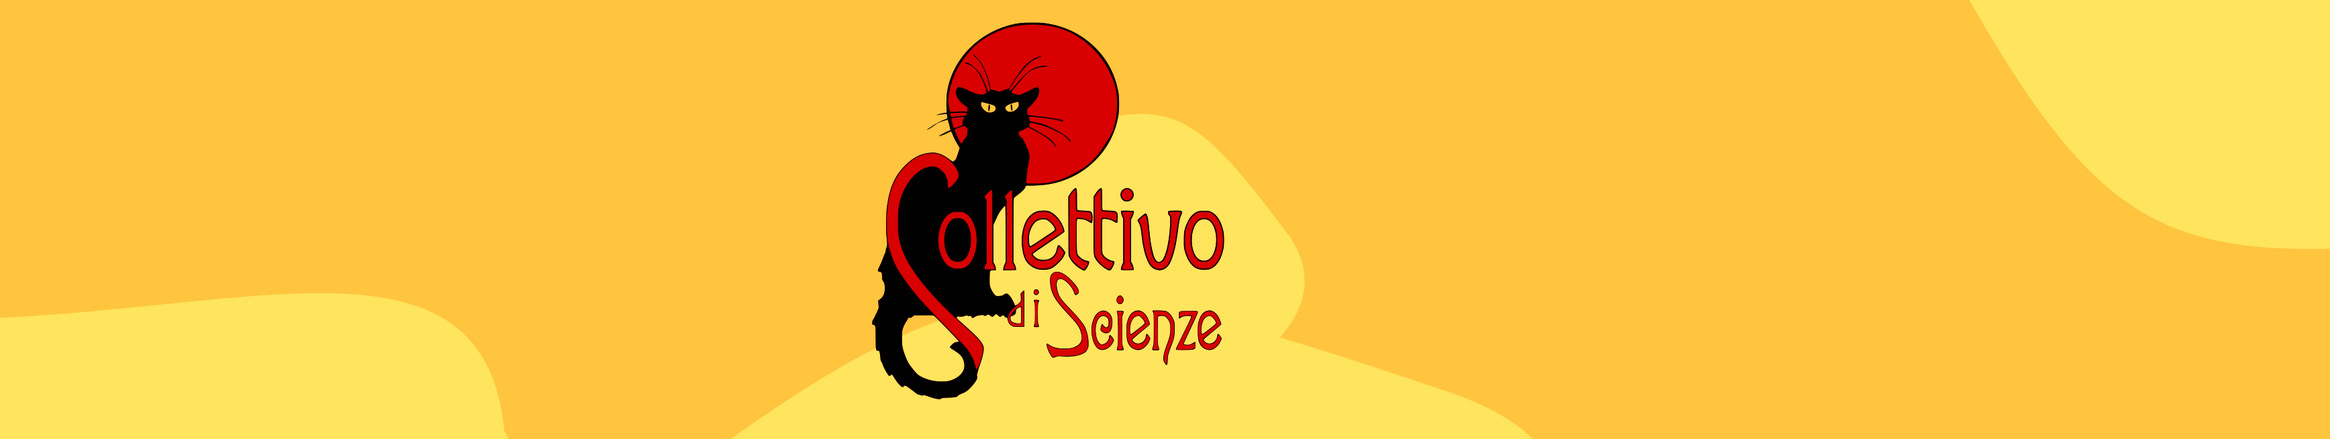
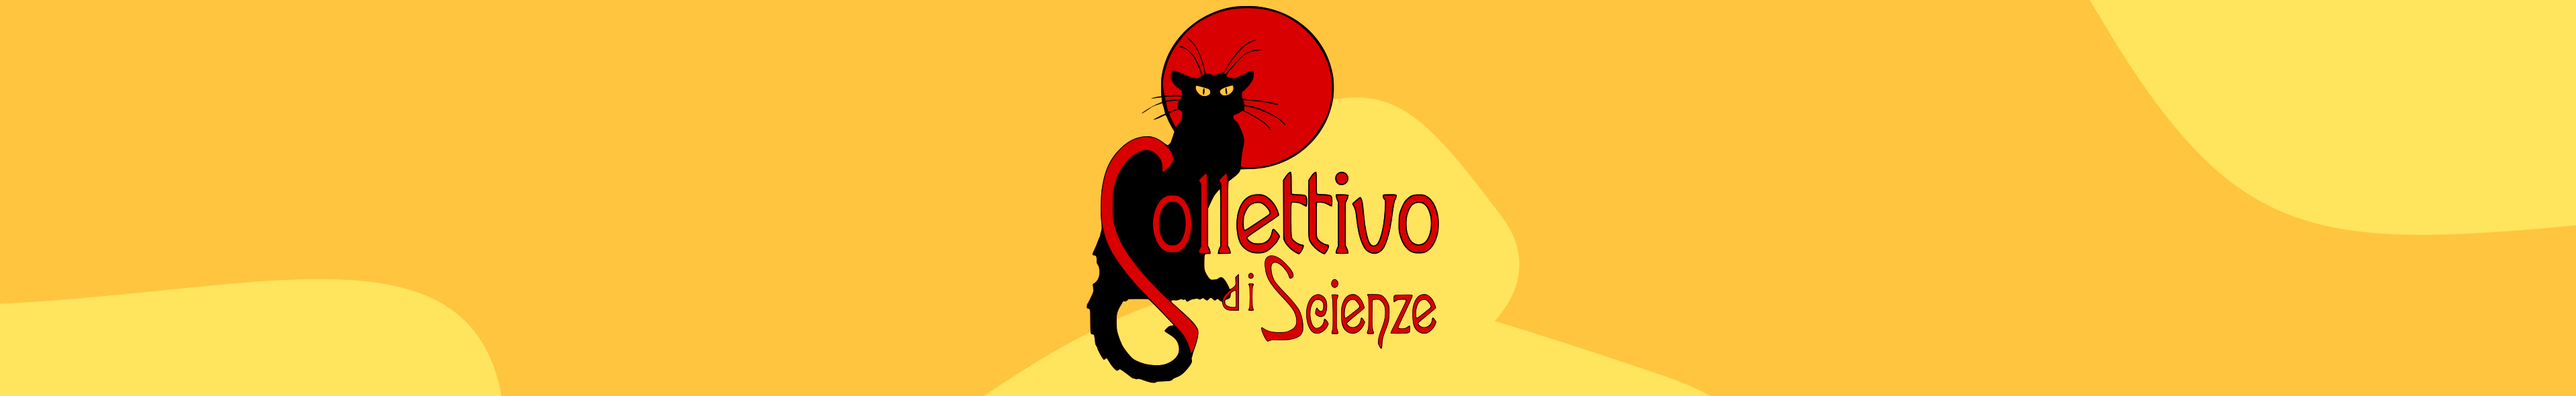
agg. sfondo scie

diff --git a/index.md b/index.md
@@ -3,7 +3,7 @@
 #correggere i commenti dei vecchi commit che fanno pena
 layout: home
 header:
-  title: Benvenutə su studentidisinistra.it
+  title: Benvenutə sul sito di Studenti di Sinistra
   #title: Torna EccePizze 🎥
   #text: la rassegna cinematografica gratuita di SdS!
   action: # action button is optional but cool
